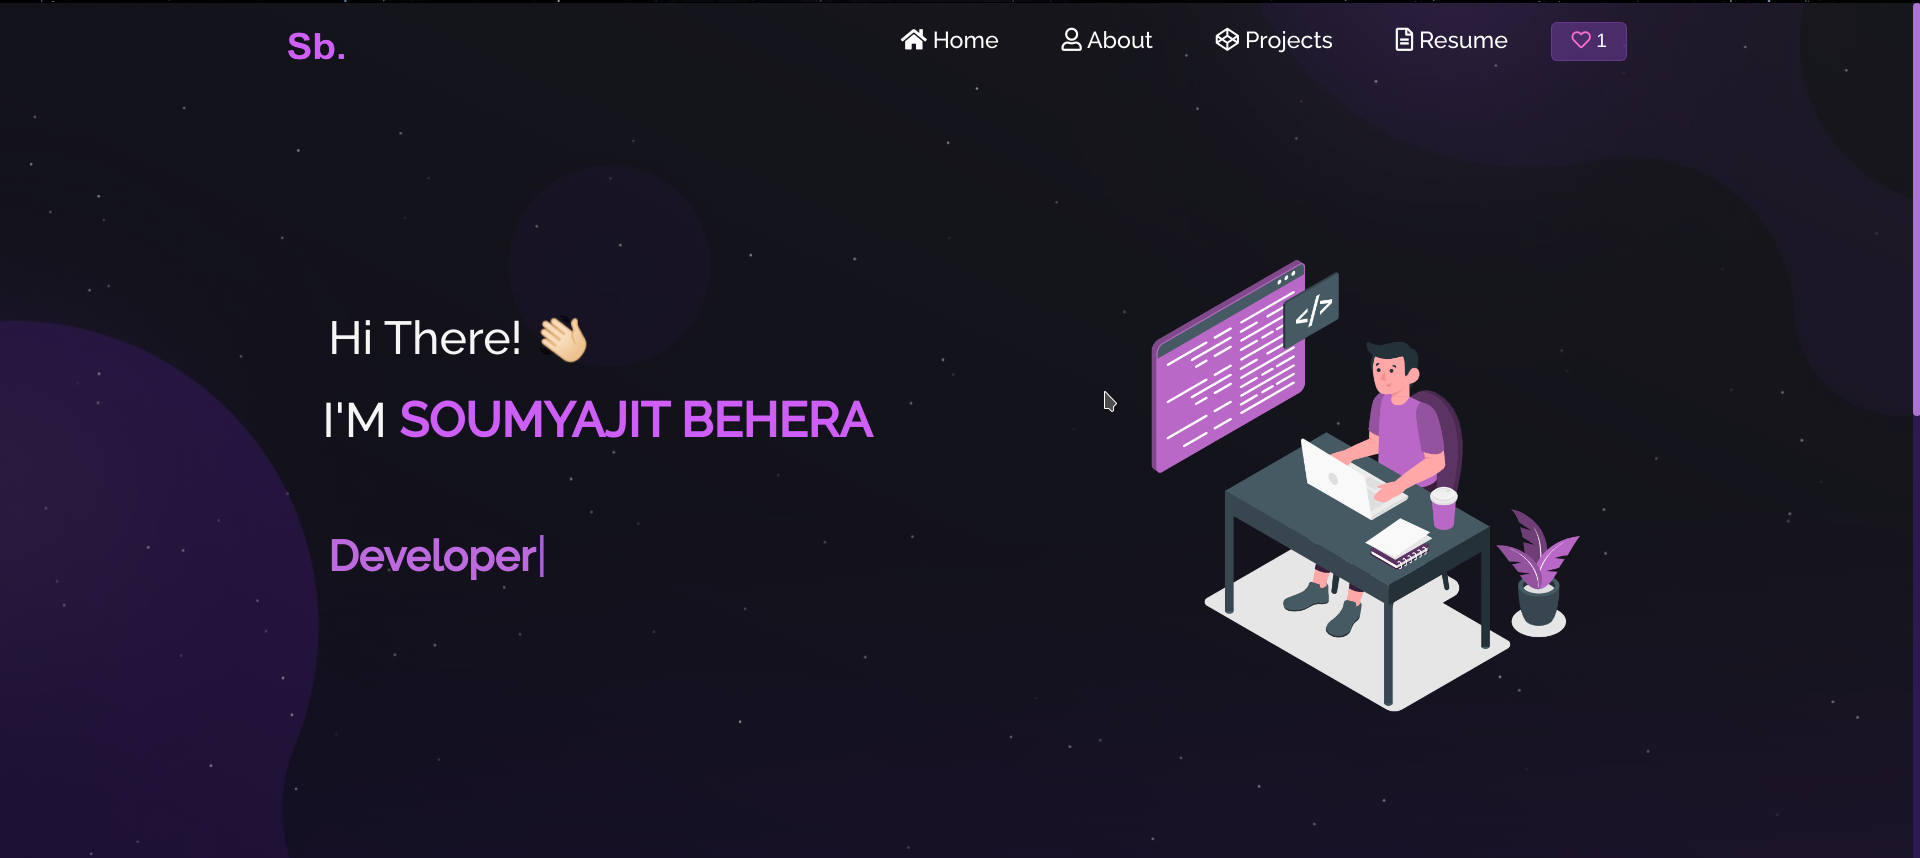
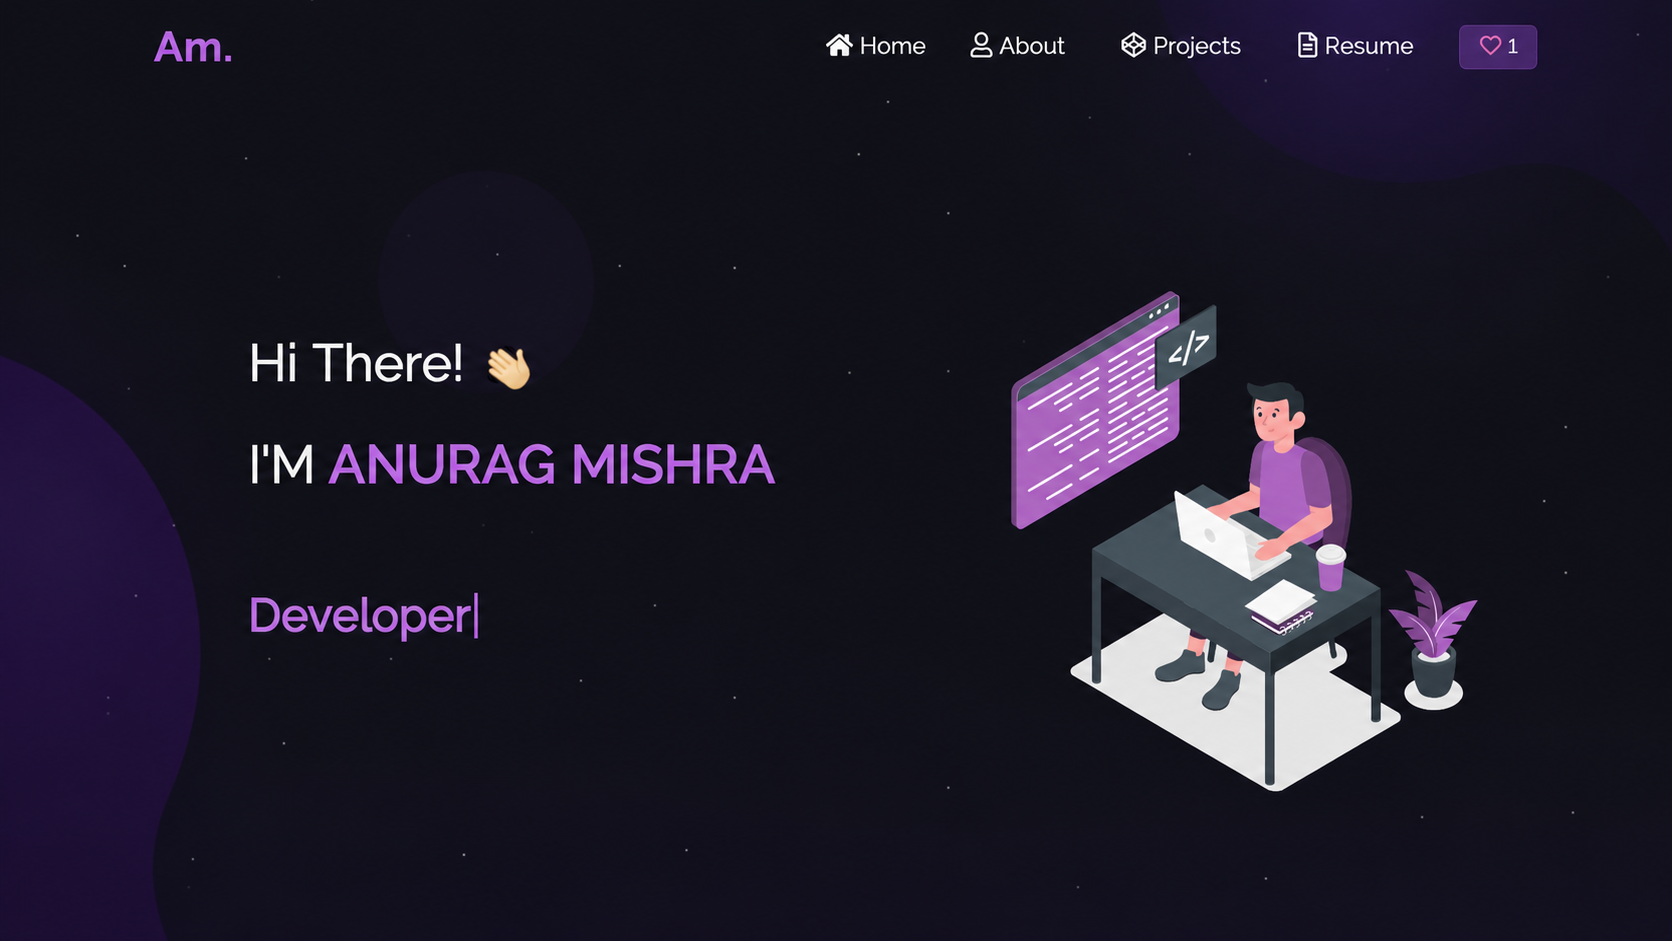
all set

diff --git a/public/index.html b/public/index.html
@@ -15,22 +15,22 @@
   <meta itemprop="name" content="Anurag Mishra | Portfolio">
   <meta itemprop="description" content="Self Developed personal website build with React.js">
   <meta itemprop="image"
-    content="https://raw.githubusercontent.com/soumyajit4419/Portfolio/master/Images/readme-img.png?token=AK7VCIF5RYEUZZAURELPTAC76U6AK">
+    content="https://raw.githubusercontent.com/anuragmi5hra/My_Portfolio/master/Images/readme-img.png?token=AK7VCIF5RYEUZZAURELPTAC76U6AK">
 
   <!-- Facebook Meta Tags -->
-  <meta property="og:url" content="https://soumyajit.vercel.app">
+  <meta property="og:url" content="https://my-portfolio-mu-ten-85.vercel.app/">
   <meta property="og:type" content="website">
   <meta property="og:title" content="Anurag Mishra | Portfolio">
   <meta property="og:description" content="Self Developed personal website build with React.js">
   <meta property="og:image"
-    content="https://raw.githubusercontent.com/soumyajit4419/Portfolio/master/Images/readme-img.png?token=AK7VCIF5RYEUZZAURELPTAC76U6AK">
+    content="https://raw.githubusercontent.com/anuragmi5hra/My_Portfolio/master/Images/readme-img.png?token=AK7VCIF5RYEUZZAURELPTAC76U6AK">
 
   <!-- Twitter Meta Tags -->
   <meta name="twitter:card" content="summary_large_image">
   <meta name="twitter:title" content="Anurag Mishra | Portfolio">
   <meta name="twitter:description" content="Self Developed personal website build with React.js">
   <meta name="twitter:image"
-    content="https://raw.githubusercontent.com/soumyajit4419/Portfolio/master/Images/readme-img.png?token=AK7VCIF5RYEUZZAURELPTAC76U6AK">
+    content="https://raw.githubusercontent.com/anuragmi5hra/My_Portfolio/master/Images/readme-img.png?token=AK7VCIF5RYEUZZAURELPTAC76U6AK">
 </head>
 
 <body>

diff --git a/README.md b/README.md
@@ -1,9 +1,9 @@
 <h2 align="center">
   Portfolio Website - v2.0<br/>
-  <a href="https://soumyajit.vercel.app/" target="_blank">soumyajit.tech</a>
+  <a href="https://my-portfolio-mu-ten-85.vercel.app/" target="_blank">soumyajit.tech</a>
 </h2>
 <div align="center">
-  <img alt="Demo" src="./Images/readme-img1.png" />
+  <img alt="Demo" src="./Images/readme-img2.png" />
 </div>
 
 <br/>
@@ -20,18 +20,18 @@
 
 <h3 align="center">
     🔹
-    <a href="https://github.com/soumyajit4419/Portfolio/issues">Report Bug</a> &nbsp; &nbsp;
+    <a href="https://github.com/anuragmi5hra/My_Portfolio/issues">Report Bug</a> &nbsp; &nbsp;
     🔹
-    <a href="https://github.com/soumyajit4419/Portfolio/issues">Request Feature</a>
+    <a href="https://github.com/anuragmi5hra/My_Portfolio/issues">Request Feature</a>
 </h3>
 
 ## TL;DR
 
-You can fork this repo to modify and make changes of your own. Please give me proper credit by linking back to [Soumyajit4419](https://github.com/soumyajit4419/Portfolio). Thanks!
+You can fork this repo to modify and make changes of your own. Please give me proper credit by linking back to [anuragmi5hra](https://github.com/anuragmi5hra/My_Portfolio). Thanks!
 
 ## Built With
 
-My personal portfolio <a href="https://soumyajit.vercel.app/" target="_blank">soumyajit.tech</a> which features some of my github projects as well as my resume and technical skills.<br/>
+My personal portfolio <a href="https://my-portfolio-mu-ten-85.vercel.app/" target="_blank">Anurag.Portfolio</a> which features some of my github projects as well as my resume and technical skills.<br/>
 
 This project was built using these technologies.
 
@@ -73,4 +73,4 @@ You will find all the components used and you can edit your information accordin
 
 Give a ⭐ if you like this website!
 
-<a href="https://www.buymeacoffee.com/soumyajit4419" target="_blank"><img src="https://cdn.buymeacoffee.com/buttons/v2/default-violet.png" alt="Buy Me A Coffee" height= "60px" width= "217px" ></a>
+
